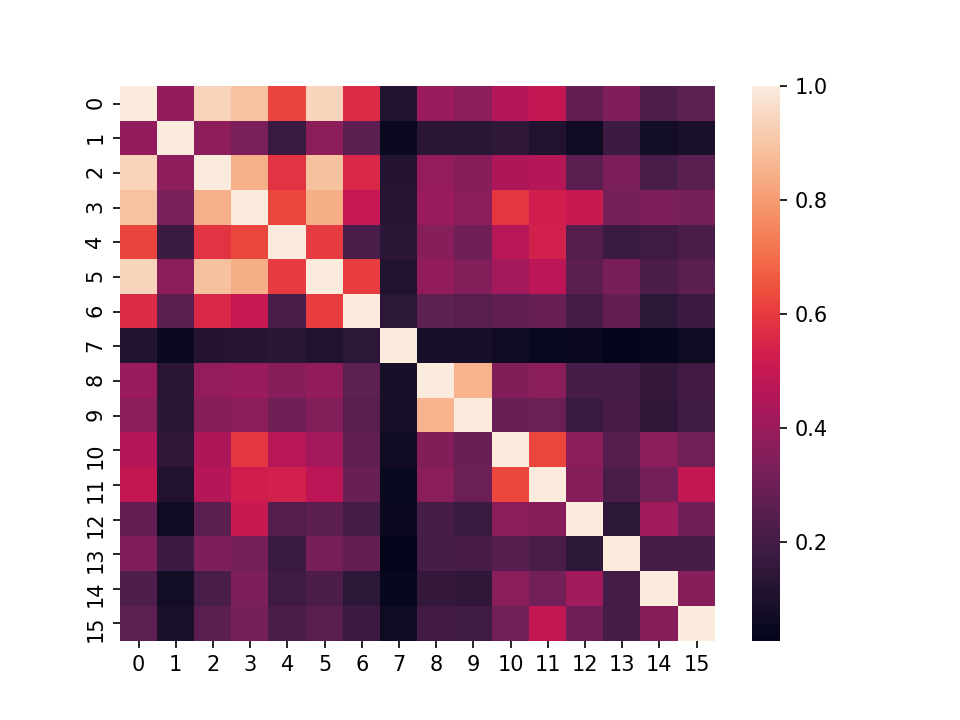
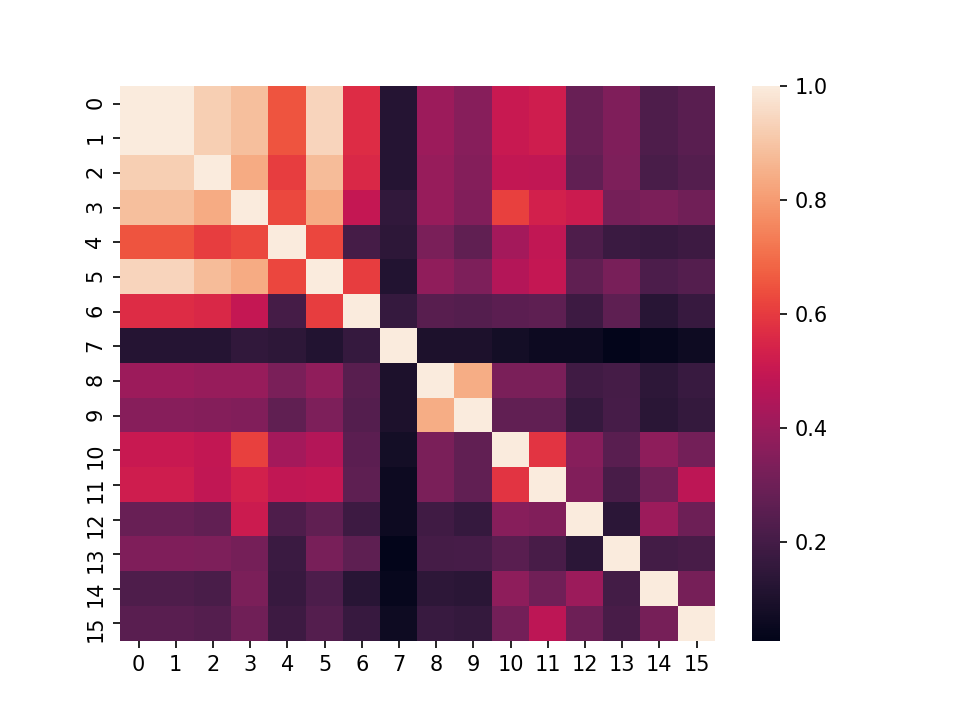
Cleaned code, added a few comments

Changed region(s): [[0.125, 0.1222, 0.75, 0.9167]]

diff --git a/cpp/ctokenizer.py b/cpp/ctokenizer.py
@@ -1,20 +1,21 @@
 import sys
-import clang.cindex as ci
-from clang.cindex import CursorKind as ck
-from clang.cindex import TypeKind as tk
 from clangData import *
+import clang.cindex as ci
+from clang.cindex import TypeKind as tk
+from clang.cindex import CursorKind as ck
 
-# Set the config (works on linux devices only)
+# Set the config (works on linux/WSL only)
 ci.Config.set_library_path("/usr/lib/x86_64-linux-gnu")
 
+# Tokenizes the cpp file present at the given path:
 def tokenize(path):
 
     index = ci.Index.create()
-    root  = index.parse(path)
+    root  = index.parse(path) # Root of the AST
     cursor = root.cursor
 
     tokens = []
-    # Traverse the AST
+    # Traverse the AST in preorder
     preOrder = cursor.walk_preorder() # A generator of cursors
     for c in preOrder:
         if str(c.location.file) == path:
@@ -22,6 +23,7 @@ def tokenize(path):
             ckind = c.kind
             tkind = c.type.kind
 
+            # Function declarations:
             if ckind in funcDec:
                 if c.is_const_method():
                     tokens.append("const_func")
@@ -31,6 +33,7 @@ def tokenize(path):
                     tokens.append("func")
                 # https://stackoverflow.com/questions/7035356/c-why-static-member-function-cant-be-created-with-const-qualifier
 
+            # Constructors:
             elif ckind == ck.CONSTRUCTOR:
                 if c.is_converting_constructor():
                     tmp = "conv_con"
@@ -44,7 +47,8 @@ def tokenize(path):
                     tmp = "con"
                 tokens.append(tmp)
 
-            elif ckind in varDec:
+            # Variable declarations:
+            elif ckind == ck.VAR_DECL:
                 if tkind not in ignoreTypeKinds:
                     if tkind in numeric_types:
                         tokens.append("num_var")
@@ -53,6 +57,7 @@ def tokenize(path):
                 else:
                     tokens.append("var")
 
+            # Parameter declarations:
             elif ckind == ck.PARM_DECL:
                 if tkind not in ignoreTypeKinds:
                     if tkind in numeric_types:
@@ -65,9 +70,11 @@ def tokenize(path):
             elif ckind == ck.TEMPLATE_TYPE_PARAMETER:
                 tokens.append("T_par")
 
+            # Access specifiers:
             elif ckind == ck.CXX_ACCESS_SPEC_DECL:
                 tokens.append(str(c.access_specifier).split('.')[1])
 
+            # Usage of an already declared variable:
             elif ckind == ck.DECL_REF_EXPR:
                 if tkind not in ignoreTypeKinds:
                     if tkind in numeric_types:
@@ -75,6 +82,7 @@ def tokenize(path):
                     else:
                         tokens.append(tkind.name + "_used")
 
+            # Function calls:
             elif ckind == ck.CALL_EXPR:
                 if tkind not in ignoreTypeKinds:
                     if tkind in numeric_types:
@@ -82,11 +90,14 @@ def tokenize(path):
                     else:
                         tokens.append(tkind.name + "_called")
 
+            # Unary operator:
             elif ckind == ck.UNARY_OPERATOR:
                 subtokens = c.get_tokens()
                 for st in subtokens:
                     if st.kind.name == "PUNCTUATION" and st.spelling in unary_operators:
                         tokens.append(st.spelling)
+            
+            # Binary operators:
             elif ckind == ck.BINARY_OPERATOR:
                 subtokens = c.get_tokens()
                 for st in subtokens:
@@ -98,11 +109,8 @@ def tokenize(path):
                             tokens.append("rshift")
                         else:
                             tokens.append(st.spelling)
-                # print("")
-                # alreadyProcessedChildren = c.get_children()
-                # for child in alreadyProcessedChildren:
-                #     if child.kind == ck.BINARY_OPERATOR:
-                #         preOrder.remove(child)
+
+            # Compound operators:
             elif ckind == ck.COMPOUND_ASSIGNMENT_OPERATOR:
                 # Compund assignment operator is equivalent to binary operator
                 subtokens = c.get_tokens()
@@ -115,9 +123,12 @@ def tokenize(path):
                             tokens.append("rshift")
                         else:
                             tokens.append(tmp)
+            
+            # Conditional operators:
             elif ckind == ck.CONDITIONAL_OPERATOR:
                 tokens.append("?:")
 
+            # Explicit type casting:
             elif ckind == ck.CSTYLE_CAST_EXPR or ckind == ck.CXX_FUNCTIONAL_CAST_EXPR:
                 if tkind not in ignoreTypeKinds:
                     if tkind in numeric_types:
@@ -127,11 +138,15 @@ def tokenize(path):
                 else:
                     tokens.append("cast")
 
+            # Boolean literals
             elif ckind == ck.CXX_BOOL_LITERAL_EXPR:
-                tokens.append("BOOL_LITERAL")
+                tokens.append("bool_literal")
+            
+            # Null pointer literals
             elif ckind == ck.CXX_NULL_PTR_LITERAL_EXPR:
-                tokens.append(tkind.name)
+                tokens.append("nullptr")
 
+            # Common keywords
             elif ckind == ck.CXX_THIS_EXPR:
                 tokens.append("this")
             elif ckind == ck.CXX_THROW_EXPR:
@@ -141,12 +156,19 @@ def tokenize(path):
             elif ckind == ck.CXX_DELETE_EXPR:
                 tokens.append("delete")
 
+            # for(:) is treated the same as for(;;)
             elif ckind == ck.CXX_FOR_RANGE_STMT:
-                tokens.append("FOR_STMT")
- 
+                tokens.append("for_stmt")
+            
+            # All numeric literals are treated the same:
+            elif ckind in numeric_literals:
+                    tokens.append("num_literal")
+
+            # Directly add miscellanous tokens
             elif ckind in misc:
                 tokens.append(ckind.name)
 
+    # Convert all to lowercase (sanity check)
     tokens = [token.lower() for token in tokens]
 
     return tokens

diff --git a/cpp/clangData.py b/cpp/clangData.py
@@ -1,86 +1,39 @@
 from clang.cindex import CursorKind
 from clang.cindex import TypeKind
 
-unary_operators = ["-", "++", "--", "!", "&"]
+# This is a helper file, should be present in the same directory as ctokenize.py
 
-binary_operators = [
-    "=", "+=", "-=", "*=", "/=", "<<=", ">>=", "&=", "|="
-    "+", "-", "*", "/", "%", 
-    "==", "!=", "<", ">", ">=", "<=", 
-    "&&", "||",
-    "&", "|", "^", "~", "<<", ">>"
+# The following punctuations are ignored during tokenization:
+ignorePunctuations = [ 
+    ";", ",", ".", "{", "}", "(", ")", "[", "]", ":", "#"
 ]
 
-ignorePunctuations = ["#", "{", "}", "(", ")", "[", "]", ";", ",", ".", ":"]
+# Operators:
+unary_operators = [
+    "-", "++", "--", "!", "&"
+]
+binary_operators = [
+    # Arithmetic operators:
+    "+", "-", "*", "/", "%",
+    # Relational operators: 
+    "==", "!=", "<", ">", ">=", "<=", 
+    # Logical operators:
+    "&&", "||",
+    # Bit operators:
+    "&", "|", "^", "~", "<<", ">>"
+]
+compound_operators = [
+    "=", "+=", "-=", "*=", "/=", "<<=", ">>=", "&=", "|="
+]
 
+# We treat all numeric data types as the same
+# We treat character types differently: https://docs.microsoft.com/en-us/cpp/cpp/char-wchar-t-char16-t-char32-t?view=msvc-160
+# This ensures changing all INTs to LONG LONG INTs doesn't affect the similarity
+# This also reduces the vocabulary size required
 numeric_literals = [
     CursorKind.INTEGER_LITERAL,
     CursorKind.FLOATING_LITERAL,
 ]
-
-misc = [
-    CursorKind.STRUCT_DECL,
-    CursorKind.UNION_DECL,
-    CursorKind.CLASS_DECL,
-    CursorKind.ENUM_DECL,
-    CursorKind.DESTRUCTOR,
-    CursorKind.CLASS_TEMPLATE,
-    CursorKind.FUNCTION_TEMPLATE,
-    CursorKind.MEMBER_REF,
-    CursorKind.INTEGER_LITERAL,
-    CursorKind.FLOATING_LITERAL,
-    CursorKind.IMAGINARY_LITERAL,
-    CursorKind.STRING_LITERAL,
-    CursorKind.CHARACTER_LITERAL,
-    CursorKind.ARRAY_SUBSCRIPT_EXPR,
-    CursorKind.INIT_LIST_EXPR,
-
-    CursorKind.CASE_STMT,
-    # A default statement.
-    CursorKind.DEFAULT_STMT,
-    # An if statement.
-    CursorKind.IF_STMT,
-    # A switch statement.
-    CursorKind.SWITCH_STMT,
-    # A while statement.
-    CursorKind.WHILE_STMT,
-    # A do statement.
-    CursorKind.DO_STMT,
-    # A for statement.
-    CursorKind.FOR_STMT,
-    # A goto statement.
-    CursorKind.GOTO_STMT,
-    # An indirect goto statement.
-    CursorKind.INDIRECT_GOTO_STMT,
-    # A continue statement.
-    CursorKind.CONTINUE_STMT,
-    # A break statement.
-    CursorKind.BREAK_STMT,
-    # A return statement.
-    CursorKind.RETURN_STMT,
-    # A GNU-style inline assembler statement.
-    CursorKind.ASM_STMT,
-    
-    # C++'s catch statement.
-    CursorKind.CXX_CATCH_STMT,
-    # C++'s try statement.
-    CursorKind.CXX_TRY_STMT,
-
-    CursorKind.NULL_STMT
-]
-
-# Function declarations:
-funcDec = [
-    CursorKind.FUNCTION_DECL,
-    CursorKind.CXX_METHOD
-] 
-
-varDec = [
-    CursorKind.VAR_DECL
-]
-
-# This ensures changing all INTs to LONG LONG INTs doesn't affect the similarity
-# This also reduces the vocabulary size required
 numeric_types = [
     TypeKind.SHORT,
     TypeKind.INT,
@@ -98,8 +51,60 @@ numeric_types = [
     TypeKind.UINT128,
 ]
 
-# We treat character types differently: https://docs.microsoft.com/en-us/cpp/cpp/char-wchar-t-char16-t-char32-t?view=msvc-160
+# These types are directly included as tokens. 
+# For example, CursorKind.STRUCT_DECL gets included as STRUCT_DECL token
+misc = [
 
+    CursorKind.STRUCT_DECL,
+    CursorKind.UNION_DECL,
+    CursorKind.CLASS_DECL,
+    CursorKind.ENUM_DECL,
+
+    CursorKind.DESTRUCTOR,
+
+    CursorKind.CLASS_TEMPLATE,
+    CursorKind.FUNCTION_TEMPLATE,
+
+    CursorKind.MEMBER_REF,
+
+    CursorKind.IMAGINARY_LITERAL,
+    CursorKind.STRING_LITERAL,
+    CursorKind.CHARACTER_LITERAL,
+
+    CursorKind.ARRAY_SUBSCRIPT_EXPR,
+    CursorKind.INIT_LIST_EXPR,
+
+    CursorKind.IF_STMT,
+    CursorKind.SWITCH_STMT,
+    CursorKind.CASE_STMT,
+    CursorKind.DEFAULT_STMT,
+
+    CursorKind.DO_STMT,
+    CursorKind.WHILE_STMT,
+    CursorKind.FOR_STMT,
+
+    CursorKind.GOTO_STMT,
+    CursorKind.INDIRECT_GOTO_STMT,
+
+    CursorKind.CONTINUE_STMT,
+    CursorKind.BREAK_STMT,
+
+    CursorKind.RETURN_STMT,
+    CursorKind.ASM_STMT,
+    
+    CursorKind.CXX_TRY_STMT,
+    CursorKind.CXX_CATCH_STMT,
+
+    CursorKind.NULL_STMT
+]
+
+# Function declarations, both are treated the same:
+funcDec = [
+    CursorKind.FUNCTION_DECL,
+    CursorKind.CXX_METHOD
+] 
+
+# These types are not tokenized at all
 ignoreTypeKinds = [
     TypeKind.INVALID, 
     TypeKind.DEPENDENT, 

diff --git a/cpp/tfidf.py b/cpp/tfidf.py
@@ -14,13 +14,11 @@ parser = argparse.ArgumentParser()
 parser.add_argument("--data", "-d", type=str, required=True)
 parser.add_argument("--regex", "-r", type=str, required=True)
 parser.add_argument("--output", "-out", type=str, required=True)
-parser.add_argument("--time", required=False, default=False, action="store_true")
 args = parser.parse_args()
 
 BASE_PATH = args.data
 FILE_RE   = args.regex
 OUT_PATH  = args.output
-showTime  = args.time
 
 files = []
 problematic_files = []
@@ -32,20 +30,20 @@ for filepath in tqdm(glob.glob(os.path.join(BASE_PATH, FILE_RE))):
         # Files which result in empty tokens
         problematic_files.append(filepath)
 
+N_DOCS = len(files)
+
 # Show problematic files
 if len(problematic_files) > 0:
     print("The following files have some problem: ")
     for pf in problematic_files:
         print(pf)
 
-N_DOCS = len(files)
-
-# A good reference: http://www.davidsbatista.net/blog/2018/02/28/TfidfVectorizer/
+# A good reference for customizing TfIdf: http://www.davidsbatista.net/blog/2018/02/28/TfidfVectorizer/
 
 def identityFunction(file):
     return file
 
-VOCAB_LIMIT = 1000 # Can be increased if efficency is not an issue
+VOCAB_LIMIT = 2000 # Can be increased if efficency is not an issue
 vectorizer = TfidfVectorizer(
     analyzer='word',
     tokenizer = identityFunction,
@@ -57,15 +55,12 @@ vectorizer = TfidfVectorizer(
     decode_error="ignore",
     stop_words = None,
     lowercase=False,
-    norm = "l2" # Each row will be normalized
+    norm = "l2" # Each row will be unit normalized
 )
-S = vectorizer.fit_transform(files)
 
-# print(vectorizer.vocabulary_)
-print(len(vectorizer.vocabulary_))
-
+S = vectorizer.fit_transform(files) # Vocabulary built is inside vectorizer.vocabulary_
+# linear_kernel computes the dot product of the sparse matrix:
 tfm = linear_kernel(S, S)
-#tfm = tfm.toarray()
 
 # TF-IDF Heatmap
 thm = sns.heatmap(tfm)
